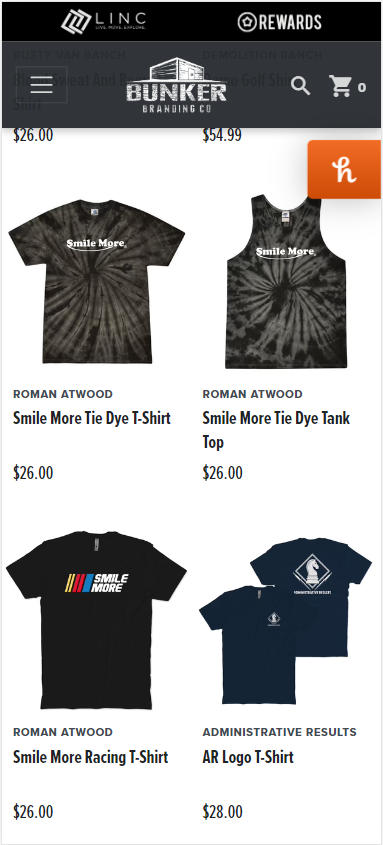
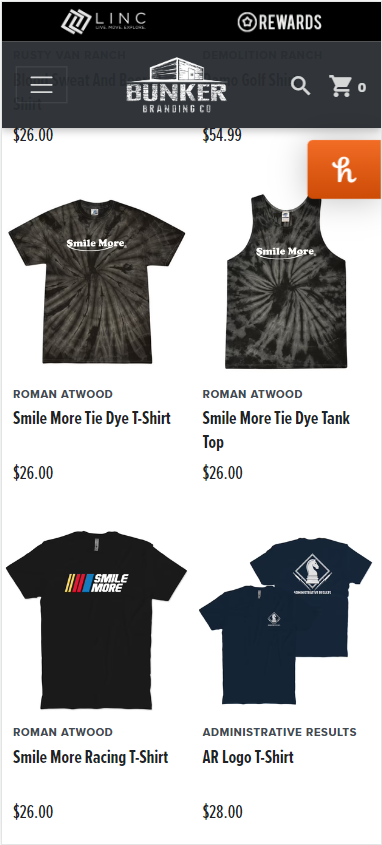
png to jpg

diff --git a/lesson2/design-principles.html b/lesson2/design-principles.html
@@ -24,7 +24,7 @@
                 <h3>PARC: Proximity</h3>
                 <h4>Bunker Branding</h4>
                 <a href="https://www.bunkerbranding.com/">https://www.bunkerbranding.com/</a>
-                <img src="images/bunker_branding.png" alt="bunker branding website">
+                <img src="images/bunker_branding.jpg" alt="bunker branding website">
                 <p>
                     With many items being sold on the site, the proximity of the price tags to the
                     image of the product is important. Because there isn't whitespace between the
@@ -36,7 +36,7 @@
                 <h3>Constrast</h3>
                 <h4>Weber School District</h4>
                 <a href="https://wsd.net/">https://wsd.net/</a>
-                <img src="images/wsd.png" alt="Weber School District Home Page">
+                <img src="images/wsd.jpg" alt="Weber School District Home Page">
                 <p>
                     The color of the text over a white background is darker to be easier to read.
                     On different sections the text is white standing out. The darker backgrounds
@@ -47,7 +47,7 @@
                 <h3>Repetition</h3>
                 <h4>KSL News</h4>
                 <a href="https://www.ksl.com/">https://www.ksl.com/</a>
-                <img src="images/ksl.png" alt="KSL News">
+                <img src="images/ksl.jpg" alt="KSL News">
                 <p>
                     The articels after the headline stories are all formatted in the same way. The
                     image is on the left and the story headline is to the right. The iimage size is
